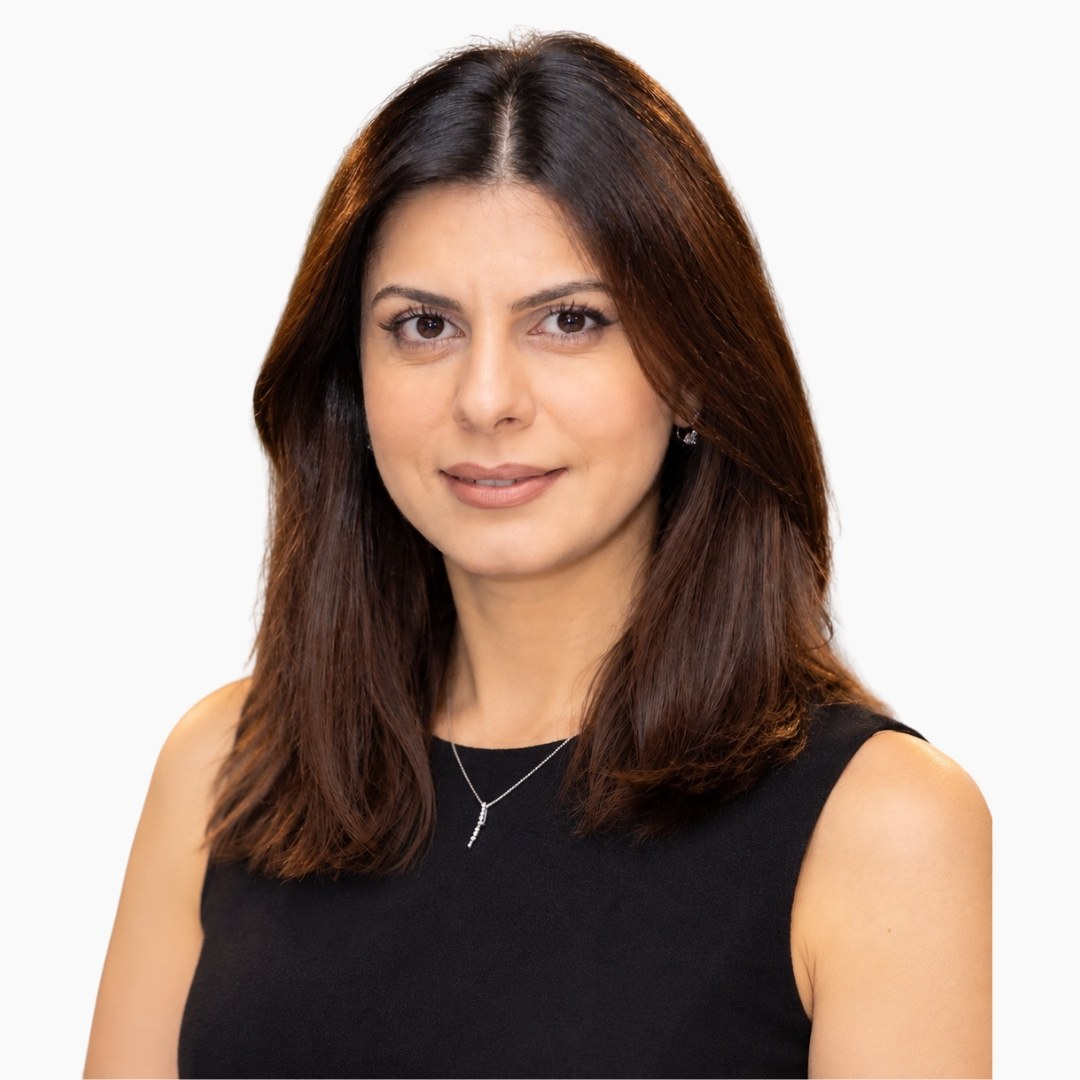
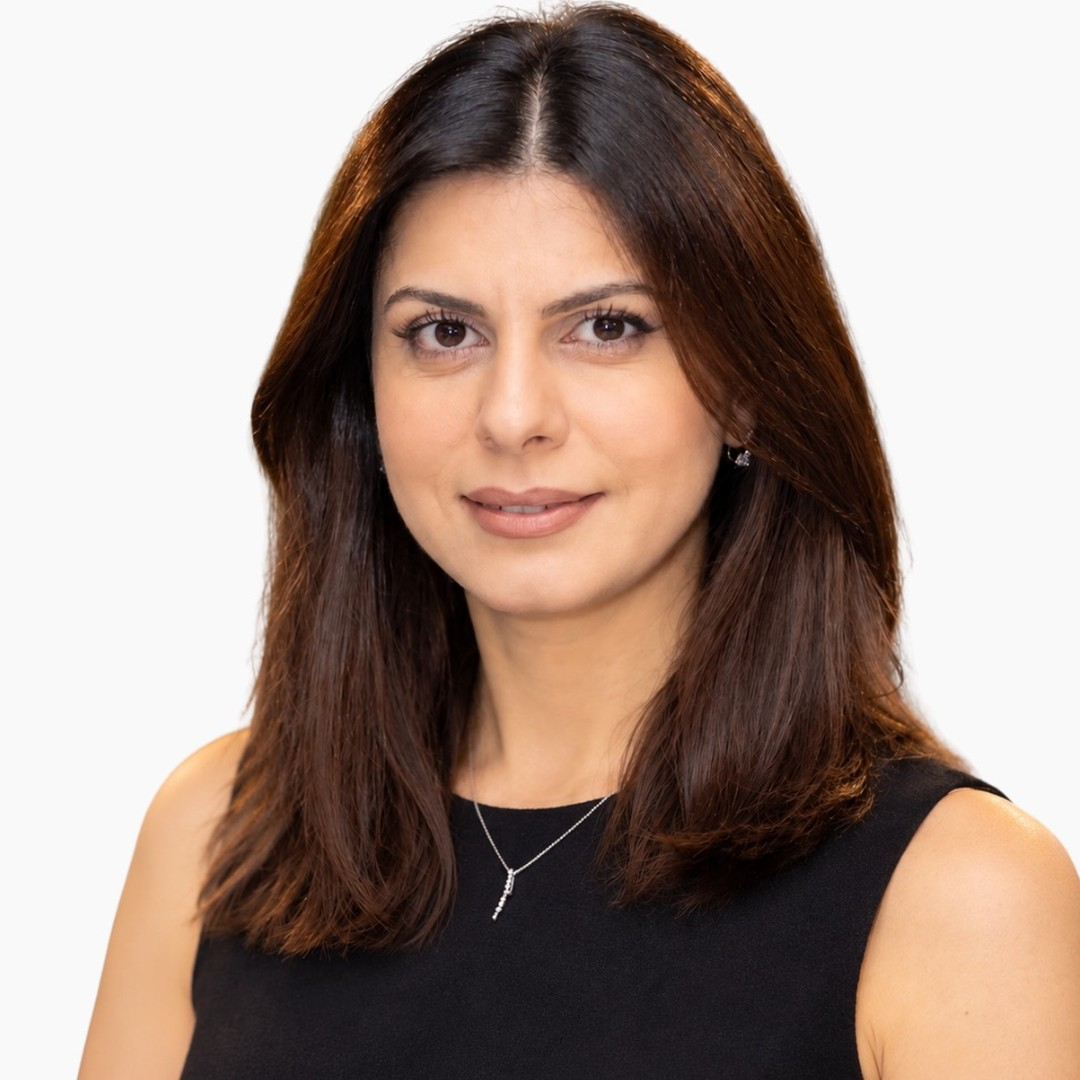
Zoom Hasmik Muradyan's photo slightly to match other specialists
Claude-Session: https://claude.ai/code/session_01UY2yYSyHezMTLTrkPybDFD

diff --git a/team.html b/team.html
@@ -234,7 +234,7 @@
           <a class="more" href="adlea-specialist-bios.html#saakanoush-markarian">Learn more &#8594;</a>
         </div>
         <div class="team-card">
-          <div class="team-photo"><img src="assets/hasmik-muradyan.jpg?v=2" alt="Hasmik Muradyan"></div>
+          <div class="team-photo"><img src="assets/hasmik-muradyan.jpg?v=3" alt="Hasmik Muradyan"></div>
           <h3>Hasmik Muradyan</h3>
           <p class="role">Armenian Language and Culture Specialist</p>
           <a class="more" href="adlea-specialist-bios.html#hasmik-muradyan">Learn more &#8594;</a>

diff --git a/adlea-specialist-bios.html b/adlea-specialist-bios.html
@@ -250,7 +250,7 @@
       </div>
 
       <div id="hasmik-muradyan" class="bio-section">
-        <div class="bio-photo"><img src="assets/hasmik-muradyan.jpg?v=2" alt="Hasmik Muradyan"></div>
+        <div class="bio-photo"><img src="assets/hasmik-muradyan.jpg?v=3" alt="Hasmik Muradyan"></div>
         <div class="bio-text">
           <span class="eyebrow">Specialist Team</span>
           <h2>Hasmik Muradyan</h2>
